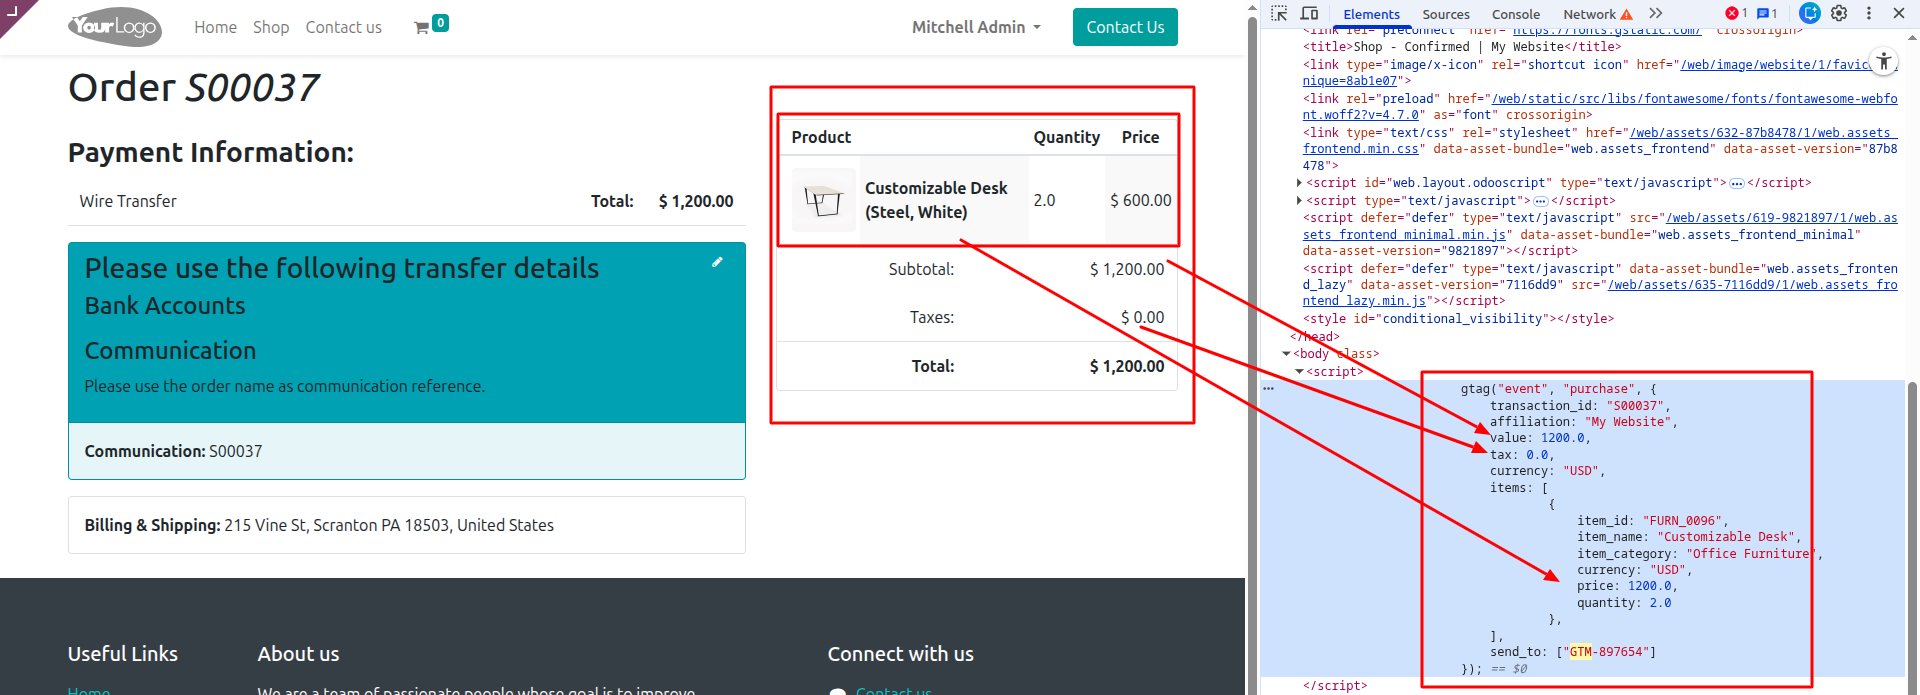
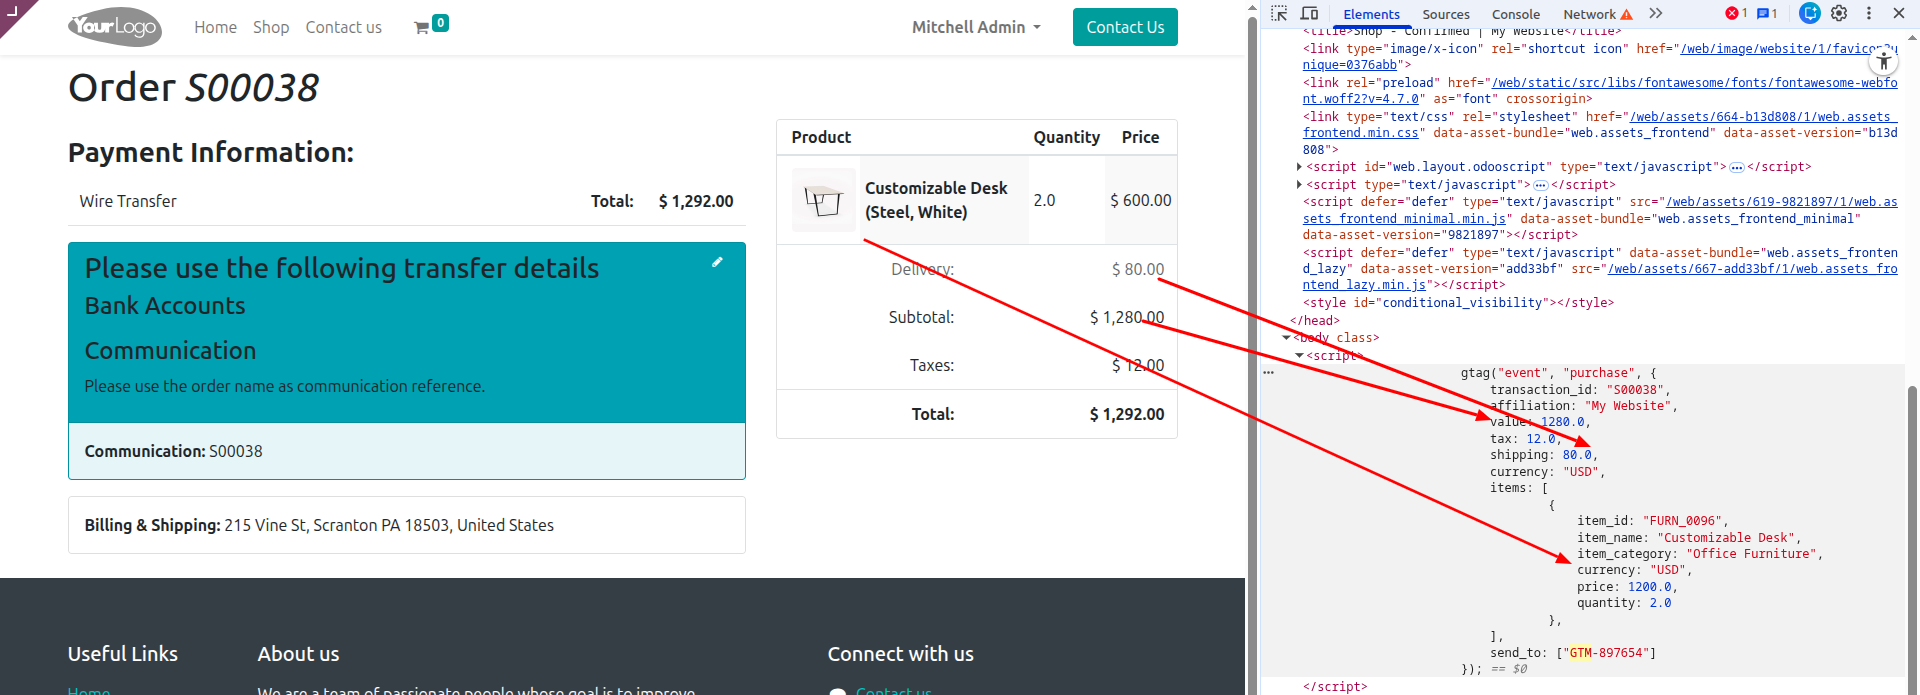
[UP] Update index

diff --git a/ki_website_google_tag_manager/static/description/index.html b/ki_website_google_tag_manager/static/description/index.html
@@ -1,10 +1,10 @@
 <section class="oe_container" style="font-family: 'Montserrat', 'Odoo Unicode Support Noto', sans-serif;">
   <div class="row mt-3 align-items-center">
     <div class="col-12 col-md-6">
-      <span class="badge badge-pill mr-2" style="background-color:#714B67; color:#FFF; padding:6px 16px;">
+      <span class="badge badge-pill mr-2" style="background-color:#714B67 !important; color:#FFF !important; padding:6px 16px !important;">
         <i class="fa fa-check" aria-hidden="true"></i> Community
       </span>
-      <span class="badge badge-pill" style="background-color:#4F46E5; color:#FFF; padding:6px 16px;">
+      <span class="badge badge-pill" style="background-color:#4F46E5 !important; color:#FFF !important; padding:6px 16px !important;">
         <i class="fa fa-check" aria-hidden="true"></i> Enterprise
       </span>
     </div>

diff --git a/ki_website_google_tag_manager/__manifest__.py b/ki_website_google_tag_manager/__manifest__.py
@@ -1,19 +1,25 @@
+# Copyright © 2025 Khichdi InfoTech (https://khichdiinfotech.com)
 
 {
     'name': 'Google Tag Manager',
     'category': 'Website',
-    'summary': 'Google Tag Manager - Odoo integration',
-    'version': '16.0.1.0',
-    'description': '''
-Includes Google Tag Manager HTML elements in the website metadata
-    ''',
-    'website' : "https://khichdiinfotech.com/",
-    "support" : "contact@khichdiinfotech.com",
-    'author'  : "Khichdi InfoTech",
-    "license": "LGPL-3",
+'summary': 'Add Google Tag Manager to your Odoo website and send structured purchase data for use in GTM tags.',
+'description': """
+Connect your Odoo website to Google Tag Manager (GTM) and manage all your marketing and analytics tags from one place.
+This add-on:
+  - Injects the GTM container snippet on public website pages
+  - Lets you configure the container ID directly from Website ▸ Configuration ▸ Settings
+  - Sends purchase information from the shop confirmation page (order value, currency and items) so you can build conversions and audiences in GTM
+It is designed to stay lightweight: no theme changes, no custom code in templates, just a clean integration with the standard Odoo website.
+""",
+    'version': '16.0.1.0.0',
+    'website' : 'https://khichdiinfotech.com/',
+    'support' : 'contact@khichdiinfotech.com',
+    'author'  : 'Khichdi InfoTech',
+    'license': 'LGPL-3',
     'images': ['static/description/banner.png', 'static/description/icon.png'],
     'depends': [
-        'website_sale',
+        'website_sale_delivery',
     ],
     'data': [
         'templates/website_layout.xml',

diff --git a/ki_website_google_tag_manager/models/__init__.py b/ki_website_google_tag_manager/models/__init__.py
@@ -1,6 +1,5 @@
 # -*- coding: utf-8 -*-
-# Copyright 2018 Pierre Faniel
-# License AGPL-3.0 or later (https://www.gnu.org/licenses/agpl.html).
+# Copyright © 2025 Khichdi InfoTech (https://khichdiinfotech.com)
 
 from . import website
 from . import website_config_settings

diff --git a/ki_website_google_tag_manager/models/website_config_settings.py b/ki_website_google_tag_manager/models/website_config_settings.py
@@ -1,7 +1,5 @@
 # -*- coding: utf-8 -*-
-# Copyright 2025 Khichdi InfoTech
-
-import json
+# Copyright © 2025 Khichdi InfoTech (https://khichdiinfotech.com)
 from odoo import api, fields, models
 
 

diff --git a/ki_website_google_tag_manager/models/website.py b/ki_website_google_tag_manager/models/website.py
@@ -1,6 +1,5 @@
 # -*- coding: utf-8 -*-
-# Copyright 2025 Khichdi Infotech
-
+# Copyright © 2025 Khichdi InfoTech (https://khichdiinfotech.com)
 from odoo import api, fields, models
 
 

diff --git a/ki_website_google_tag_manager/__init__.py b/ki_website_google_tag_manager/__init__.py
@@ -1,2 +1,3 @@
 # -*- coding: utf-8 -*-
+# Copyright © 2025 Khichdi InfoTech (https://khichdiinfotech.com)
 from . import models
